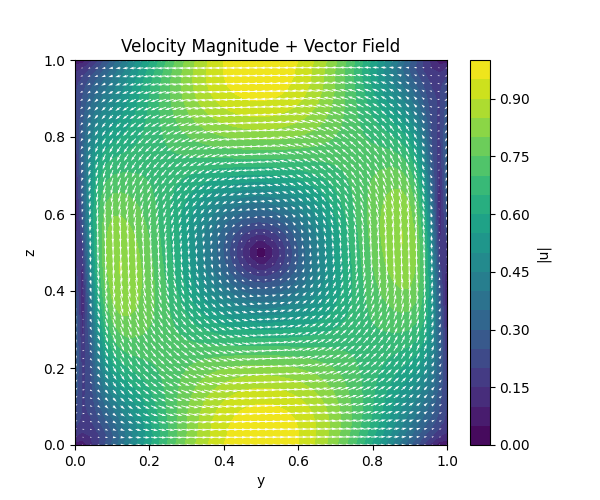
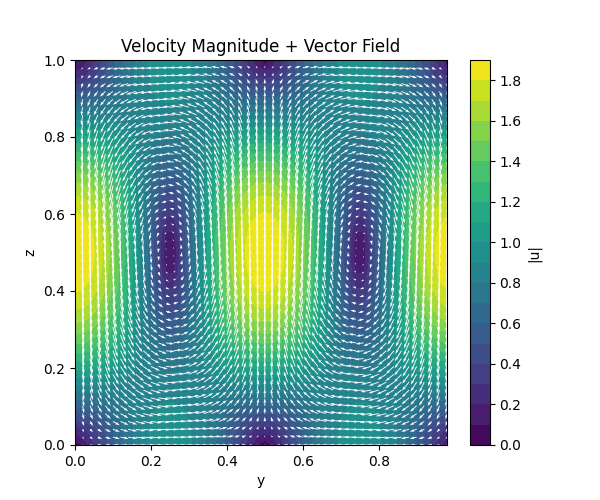
Ceren's changes

diff --git a/src/IncompressibleFlow.py b/src/IncompressibleFlow.py
@@ -54,13 +54,16 @@ nu = 0.01                # kinematic viscosity
 # INITIAL CONDITIONS
 # ============================================================
 
-y = np.linspace(0, Ly, Ny)
-z = np.linspace(0, Lz, Nz)
+y = np.linspace(0, Ly, Ny, endpoint=False) # periodic
+z = np.linspace(0, Lz, Nz, endpoint=True)  # walls included
 Y, Z = np.meshgrid(y, z, indexing="ij")
 
-v = np.sin(np.pi * Y) * np.cos(np.pi * Z)   # velocity in y-direction
-w = -np.cos(np.pi * Y) * np.sin(np.pi * Z)  # velocity in z-direction
-p = np.zeros((Ny, Nz))   # pressure field
+ky = 2*np.pi / Ly
+kz = np.pi / Lz
+
+v = np.sin(ky*Y) * np.cos(kz*Z)             # velocity in y-direction
+w = -(ky/kz) * np.cos(ky*Y) * np.sin(kz*Z)  # velocity in z-direction
+p = np.zeros((Ny, Nz))                      # pressure field
 
 # ============================================================
 # FINITE DIFFERENCE OPERATORS
@@ -69,24 +72,37 @@ p = np.zeros((Ny, Nz))   # pressure field
 def divergence(v, w):
     '''
     ∇ ⋅ u = ∂v/∂y + ∂w/∂z
+    periodic in y via roll, walls in z via central interior
     '''
-    div = np.zeros_like(v)
-    div[1:-1, 1:-1] = (
-        (v[2:, 1:-1] - v[:-2, 1:-1]) / (2*dy) +
-        (w[1:-1, 2:] - w[1:-1, :-2]) / (2*dz)
-    )
-    return div
+    v, w = apply_velocity_bc(v.copy(), w.copy())
+
+    dv_dy = (np.roll(v, -1, axis=0) - np.roll(v, 1, axis=0)) / (2*dy)
+
+    dw_dz = np.zeros_like(w)
+    dw_dz[:, 1:-1] = (w[:, 2:] - w[:, :-2]) / (2*dz)
+    # one-sided at walls 
+    dw_dz[:, 0]  = (w[:, 1] - w[:, 0]) / dz
+    dw_dz[:, -1] = (w[:, -1] - w[:, -2]) / dz
+
+    return dv_dy + dw_dz
 
 
 def gradient(p):
     '''
     ∇p = (∂p/∂y, ∂p/∂z)
+    periodic in y via roll
+    Neumann in z handled by copying adjacent values before derivative
     '''
-    dpdy = np.zeros_like(p)
-    dpdz = np.zeros_like(p)
+    p = p.copy()
+    p[:, 0]  = p[:, 1]
+    p[:, -1] = p[:, -2]
 
-    dpdy[1:-1, 1:-1] = (p[2:, 1:-1] - p[:-2, 1:-1]) / (2*dy)
-    dpdz[1:-1, 1:-1] = (p[1:-1, 2:] - p[1:-1, :-2]) / (2*dz)
+    dpdy = (np.roll(p, -1, axis=0) - np.roll(p, 1, axis=0)) / (2*dy)
+
+    dpdz = np.zeros_like(p)
+    dpdz[:, 1:-1] = (p[:, 2:] - p[:, :-2]) / (2*dz)
+    dpdz[:, 0]  = (p[:, 1] - p[:, 0]) / dz
+    dpdz[:, -1] = (p[:, -1] - p[:, -2]) / dz
 
     return dpdy, dpdz
 
@@ -94,13 +110,22 @@ def gradient(p):
 def laplacian(f):
     '''
     Δf = ∂²f/∂y² + ∂²f/∂z²
+    periodic in y via roll
+    in z: central interior + reflection at boundaries (Neumann-type)
     '''
-    lap = np.zeros_like(f)
-    lap[1:-1, 1:-1] = (
-        (f[2:, 1:-1] - 2*f[1:-1, 1:-1] + f[:-2, 1:-1]) / dy**2 +
-        (f[1:-1, 2:] - 2*f[1:-1, 1:-1] + f[1:-1, :-2]) / dz**2
-    )
-    return lap
+    f = f.copy()
+    # reflect in z for a stable 2nd derivative near walls
+    f[:, 0]  = f[:, 1]
+    f[:, -1] = f[:, -2]
+
+    d2y = (np.roll(f, -1, axis=0) - 2*f + np.roll(f, 1, axis=0)) / (dy**2)
+
+    d2z = np.zeros_like(f)
+    d2z[:, 1:-1] = (f[:, 2:] - 2*f[:, 1:-1] + f[:, :-2]) / (dz**2)
+    d2z[:, 0]  = (f[:, 1] - 2*f[:, 0] + f[:, 1]) / (dz**2)
+    d2z[:, -1] = (f[:, -2] - 2*f[:, -1] + f[:, -2]) / (dz**2)
+
+    return d2y + d2z
 
 # ============================================================
 # PREDICTOR STEP
@@ -122,11 +147,25 @@ def predictor_step(v, w):
     dw_dy = np.zeros_like(w)
     dw_dz = np.zeros_like(w)
 
+    # enforce BCs in z 
+    v, w = apply_velocity_bc(v.copy(), w.copy())
+
     # approximate spatial derivatives using central difference on interior points. Time integration uses explicit forward Euler
-    dv_dy[1:-1, 1:-1] = (v[2:, 1:-1] - v[:-2, 1:-1]) / (2*dy) # ∂v/∂y ≈ (v[i+1, j] - v[i-1, j]) / (2*dy)
-    dv_dz[1:-1, 1:-1] = (v[1:-1, 2:] - v[1:-1, :-2]) / (2*dz) # ∂v/∂z ≈ (v[i, j+1] - v[i, j-1]) / (2*dz)
-    dw_dy[1:-1, 1:-1] = (w[2:, 1:-1] - w[:-2, 1:-1]) / (2*dy) # ∂w/∂y ≈ (w[i+1, j] - w[i-1, j]) / (2*dy)
-    dw_dz[1:-1, 1:-1] = (w[1:-1, 2:] - w[1:-1, :-2]) / (2*dz) # ∂w/∂z ≈ (w[i, j+1] - w[i, j-1]) / (2*dz)
+    # periodic y derivatives via roll
+    dv_dy = (np.roll(v, -1, axis=0) - np.roll(v,  1, axis=0)) / (2*dy)
+    # dv_dy[1:-1, 1:-1] = (v[2:, 1:-1] - v[:-2, 1:-1]) / (2*dy) # ∂v/∂y ≈ (v[i+1, j] - v[i-1, j]) / (2*dy)
+    dw_dy = (np.roll(w, -1, axis=0) - np.roll(w,  1, axis=0)) / (2*dy)
+    # dw_dy[1:-1, 1:-1] = (w[2:, 1:-1] - w[:-2, 1:-1]) / (2*dy) # ∂w/∂y ≈ (w[i+1, j] - w[i-1, j]) / (2*dy)
+
+    # # z derivatives (central interior + one-sided at walls)
+    dv_dz[:, 1:-1] = (v[:, 2:] - v[:, :-2]) / (2*dz)
+    dv_dz[:, 0]  = (v[:, 1] - v[:, 0]) / dz
+    dv_dz[:, -1] = (v[:, -1] - v[:, -2]) / dz
+    dw_dz[:, 1:-1] = (w[:, 2:] - w[:, :-2]) / (2*dz)
+    dw_dz[:, 0]  = (w[:, 1] - w[:, 0]) / dz
+    dw_dz[:, -1] = (w[:, -1] - w[:, -2]) / dz
+    # dv_dz[1:-1, 1:-1] = (v[1:-1, 2:] - v[1:-1, :-2]) / (2*dz) # ∂v/∂z ≈ (v[i, j+1] - v[i, j-1]) / (2*dz)
+    # dw_dz[1:-1, 1:-1] = (w[1:-1, 2:] - w[1:-1, :-2]) / (2*dz) # ∂w/∂z ≈ (w[i, j+1] - w[i, j-1]) / (2*dz)
 
     # convection terms
     conv_v = v * dv_dy + w * dv_dz # (u ⋅ ∇)v = v(∂v/∂y) + w(∂v/∂z)
@@ -146,10 +185,13 @@ def predictor_step(v, w):
 # PRESSURE POISSON SOLVER (JACOBI METHOD)
 # ============================================================
 
-def pressure_poisson(p, rhs, max_iter=500, tol=1e-5):
+def pressure_poisson(p, rhs, max_iter=5000, tol=1e-8):
     '''
     computes the pressure field p by solving the Poisson equation that arises
-    from enforcing incompressibility in Chorin's projection method.
+    from enforcing incompressibility in Chorin's projection method. Solve the Δp = rhs with:
+        - periodic in y
+        - Neumann BCs in z (∂p/∂n = 0)
+        - mean(p) = 0 to fix the gauge freedom 
     parameters:
         p: initial guess for pressure field (2D array)
         rhs: right-hand side of the Poisson equation (2D array); rhs = (rho/dt) * ∇ ⋅ u*
@@ -157,28 +199,42 @@ def pressure_poisson(p, rhs, max_iter=500, tol=1e-5):
         p: solution of the Poisson equation Δp = rhs with Neumann BCs
 
     '''
-    p_new = np.zeros_like(p)
 
-    for _ in range(max_iter):
+    p = p.copy()
+    rhs = rhs - rhs.mean()   # compatibility for Neumann Poisson
+    # p_new = np.zeros_like(p)
+
+    for _ in range(max_iter): # p[i, j] = ((p[i+1, j] + p[i-1, j]) * dz^2 + (p[i, j+1] + p[i, j-1]) * dy^2 - rhs[i, j] * dy^2 * dz^2) / (2 * (dy^2 + dz^2))
+        p_old = p.copy()
+
+        # enforce Neumann in z before update
+        p[:, 0]  = p[:, 1]
+        p[:, -1] = p[:, -2]
+
+        # Jacobi update: periodic y via roll, z via indexing
+        p_y_plus  = np.roll(p_old, -1, axis=0)
+        p_y_minus = np.roll(p_old,  1, axis=0)
+
+        # z neighbors with Neumann reflection
+        p_z_plus = np.zeros_like(p)
+        p_z_minus = np.zeros_like(p)
+        p_z_plus[:, :-1] = p_old[:, 1:]
+        p_z_plus[:, -1]  = p_old[:, -2]
+        p_z_minus[:, 1:] = p_old[:, :-1]
+        p_z_minus[:, 0]  = p_old[:, 1]
+
         # discrete Lapacian
-        p_new[1:-1, 1:-1] = (
-            ((p[2:, 1:-1] + p[:-2, 1:-1]) * dz**2 +
-             (p[1:-1, 2:] + p[1:-1, :-2]) * dy**2 -
-             rhs[1:-1, 1:-1] * dy**2 * dz**2)
-            / (2 * (dy**2 + dz**2))
-        ) # p[i, j] = ((p[i+1, j] + p[i-1, j]) * dz^2 + (p[i, j+1] + p[i, j-1]) * dy^2 - rhs[i, j] * dy^2 * dz^2) / (2 * (dy^2 + dz^2))
+        p = ((p_y_plus + p_y_minus) * dz**2 +
+             (p_z_plus + p_z_minus) * dy**2 -
+             rhs * dy**2 * dz**2) / (2*(dy**2 + dz**2))
 
-        # Neumann BC ∂p/∂n = 0 → pressure doesn't change across the boundary, so we can just copy the adjacent interior value to the ghost cells
-        p_new[0, :] = p_new[1, :]   # y = 0 boundary
-        p_new[-1, :] = p_new[-2, :] # y = Ly boundary
-        p_new[:, 0] = p_new[:, 1]   # z = 0 boundary
-        p_new[:, -1] = p_new[:, -2] # z = Lz boundary
+        # Neumann in z + gauge fix
+        p[:, 0]  = p[:, 1]
+        p[:, -1] = p[:, -2]
+        p -= p.mean()
 
-        # convergence check -- iterate until the maximum change in pressure is below the tolerance level
-        if np.max(np.abs(p_new - p)) < tol:
+        if np.max(np.abs(p - p_old)) < tol:
             break
-
-        p[:] = p_new[:]
 
     return p
 
@@ -204,15 +260,14 @@ def projection_step(v_star, w_star, p):
 # ============================================================
 
 def apply_velocity_bc(v, w):
-    # periodic in y
-    v[0, :] = v[-2, :] # v[0, j] = v[Ny-2, j]
-    v[-1, :] = v[1, :] # v[Ny-1, j] = v[1, j]
-    w[0, :] = w[-2, :] # w[0, j] = w[Ny-2, j]
-    w[-1, :] = w[1, :] # w[Ny-1, j] = w[1, j]
 
-    # walls in z
+    # walls in z: w = 0
     w[:, 0] = 0.0   # w[i, 0] = 0.0
     w[:, -1] = 0.0  # w[i, Nz-1] = 0.0
+
+    # free-slip for v at walls (∂v/∂n = 0)
+    v[:, 0] = v[:, 1]   # v[i, 0] = v[i, 1]
+    v[:, -1] = v[:, -2] # v[i, Nz-1
 
     return v, w
 
